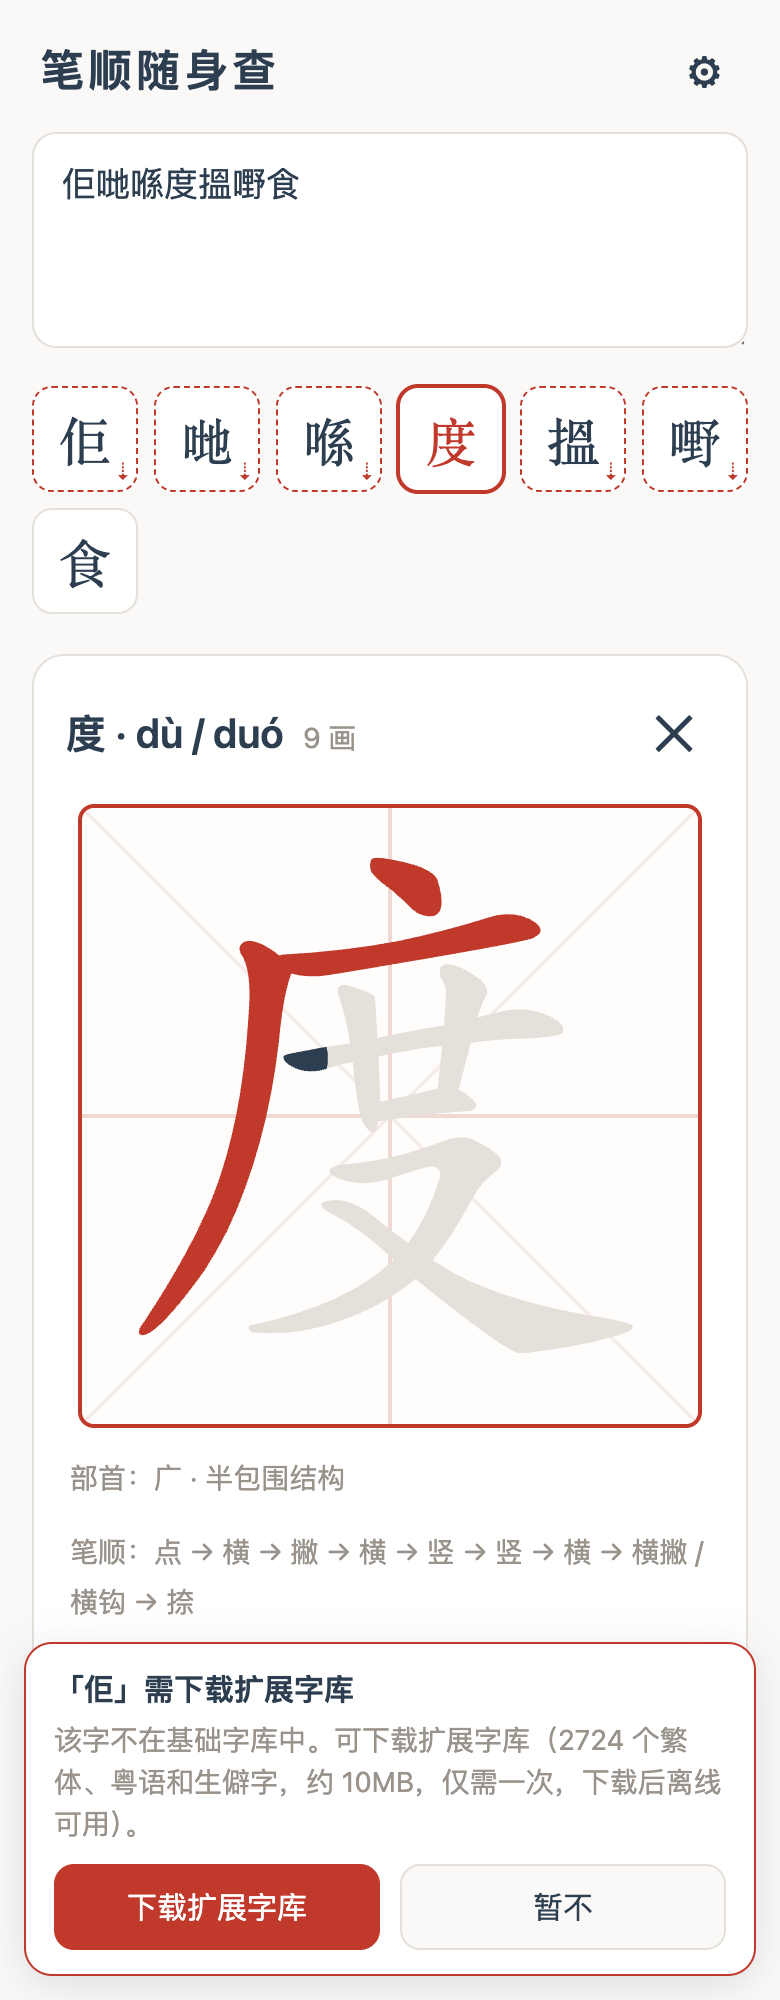
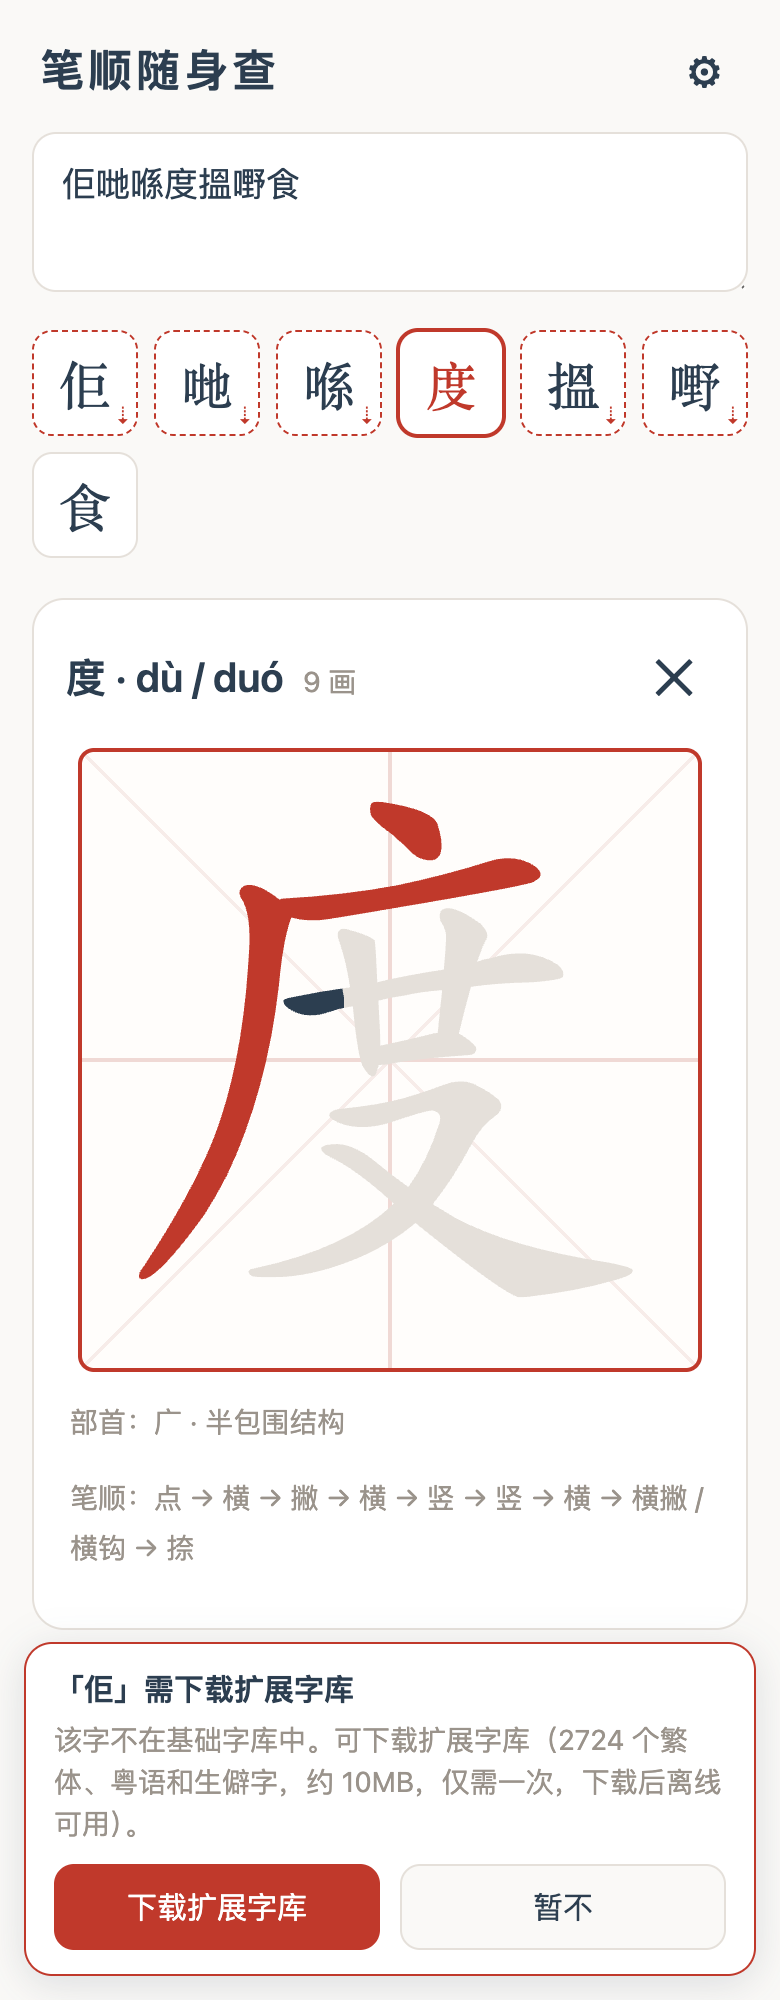
添加到主屏幕：复制链接 + 微信等内置浏览器识别 + Android 品牌浏览器提示
- 内置浏览器（微信/QQ/微博/钉钉/支付宝/抖音）检测：提示先跳出到系统浏览器，
  复制链接按钮设为主按钮，降低操作成本
- Android 按品牌给出对应默认浏览器的操作提示（小米/OPPO/vivo/华为/三星），
  而非统一按 Chrome 描述
- 复制链接：Clipboard API 优先，权限受限时降级到 execCommand

其余四项体验改进：
- 输入框改为 2 行高度
- 首次访问在空白区域播放一次笔字笔顺动画，教用户核心用法
- 练习按钮加边框/阴影/主题色，视觉上更像按钮
- 反馈提交成功后延迟 2.5 秒再返回设置页

diff --git a/src/main.ts b/src/main.ts
@@ -125,11 +125,15 @@ app.innerHTML = `
   </div>
 
   <section class="input-area">
-    <textarea id="text-input" rows="3" placeholder="请输入一个字或一段话让我识别吧。使用语音输入会更快哦 🎤" autocomplete="off"></textarea>
+    <textarea id="text-input" rows="2" placeholder="请输入一个字或一段话让我识别吧。使用语音输入会更快哦 🎤" autocomplete="off"></textarea>
   </section>
 
   <section id="char-grid" class="char-grid"></section>
   <p id="empty-hint" class="empty-hint">输入文字后，点击任意字查看笔顺 ✍️</p>
+  <div id="empty-demo" class="empty-demo" hidden>
+    <div id="demo-writer" class="mizige demo-writer-box"></div>
+    <p class="empty-demo-caption">👆 点这样的字，就能看到笔顺动画啦</p>
+  </div>
 
   <div id="detail" class="detail" hidden>
     <div class="detail-head">
@@ -181,10 +185,11 @@ app.innerHTML = `
 
   <div id="install-banner" class="install-banner" hidden>
     <div class="install-text">
-      <strong>📲 添加到主屏幕，断网也能查</strong>
+      <strong id="install-title">📲 添加到主屏幕，断网也能查</strong>
       <span id="install-steps"></span>
     </div>
     <div class="install-actions">
+      <button id="copy-link-btn" class="action-btn">🔗 复制链接</button>
       <button id="install-btn" class="action-btn install-primary" hidden>一键安装</button>
       <button id="install-dismiss" class="action-btn">知道了</button>
     </div>
@@ -238,6 +243,7 @@ Promise.all([
     const q = new URLSearchParams(location.search).get('q');
     if (q && !textInput.value) textInput.value = q;
     renderChars();
+    if (!textInput.value) maybeShowDemo();
   })
   .catch(() => {
     loading.textContent = '笔顺数据加载失败，请刷新重试';
@@ -258,8 +264,9 @@ function extractChars(text: string): string[] {
 
 function renderChars() {
   const chars = extractChars(textInput.value);
+  if (chars.length > 0) hideDemo();
   charGrid.innerHTML = '';
-  emptyHint.hidden = chars.length > 0;
+  emptyHint.hidden = chars.length > 0 || !$('#empty-demo').hidden;
   const cardOf = new Map<string, HTMLButtonElement>();
   for (const ch of chars) {
     const btn = document.createElement('button');
@@ -308,9 +315,38 @@ function renderChars() {
 
 let renderTimer: number | undefined;
 textInput.addEventListener('input', () => {
+  hideDemo(); // 一开始打字就收起首次演示，不用等 debounce
   clearTimeout(renderTimer);
   renderTimer = window.setTimeout(renderChars, 200);
 });
+
+// ---------- 首次访问演示：播放一次"笔"字的笔顺，教用户点字看笔顺 ----------
+const DEMO_SEEN_KEY = 'bishun-demo-seen';
+const emptyDemo = $('#empty-demo');
+
+function hideDemo() {
+  if (!emptyDemo.hidden) emptyDemo.hidden = true;
+}
+
+function maybeShowDemo() {
+  if (localStorage.getItem(DEMO_SEEN_KEY)) return;
+  if (!('笔' in strokeData)) return;
+  // 标记为已展示：确保无论刷新与否，这个演示一生只播一次
+  localStorage.setItem(DEMO_SEEN_KEY, '1');
+  emptyDemo.hidden = false;
+  emptyHint.hidden = true;
+  const target = $('#demo-writer');
+  const demoWriter = HanziWriter.create(target, '笔', {
+    width: 120,
+    height: 120,
+    padding: 8,
+    strokeColor: '#2c3e50',
+    radicalColor: '#c0392b',
+    showCharacter: false,
+    charDataLoader: (char, onComplete) => onComplete(strokeData[char] as never),
+  });
+  window.setTimeout(() => demoWriter.animateCharacter(), 400);
+}
 
 // ---------- 详情与动画 ----------
 function showDetail(ch: string, opts: { scroll?: boolean } = {}) {
@@ -458,7 +494,7 @@ feedbackSubmit.addEventListener('click', async () => {
     if (!r.ok) throw new Error(String(r.status));
     // 先让用户看到成功状态，再返回设置页，避免"不知道有没有提交上"
     feedbackSubmit.textContent = '✅ 提交成功，谢谢你的反馈！';
-    await new Promise((res) => setTimeout(res, 1200));
+    await new Promise((res) => setTimeout(res, 2500));
     feedbackText.value = '';
     feedbackContact.value = '';
     feedbackPage.hidden = true;
@@ -557,6 +593,29 @@ function isStandalone(): boolean {
   );
 }
 
+// 微信/QQ/微博等 App 内置浏览器无法添加到主屏幕，必须先跳到系统浏览器
+function inAppBrowserName(): string | null {
+  const ua = navigator.userAgent;
+  if (/MicroMessenger/i.test(ua)) return '微信';
+  if (/\bQQ\//i.test(ua) && !/MQQBrowser/i.test(ua)) return 'QQ';
+  if (/Weibo/i.test(ua)) return '微博';
+  if (/DingTalk/i.test(ua)) return '钉钉';
+  if (/AlipayClient/i.test(ua)) return '支付宝';
+  if (/(toutiao|bytedance|musical_ly|aweme)/i.test(ua)) return '今日头条/抖音';
+  return null;
+}
+
+// Android 品牌繁多，各家默认浏览器菜单位置不同，尽量给出对应提示
+function androidBrowserSteps(): string {
+  const ua = navigator.userAgent;
+  if (/SamsungBrowser/i.test(ua)) return '点击地址栏右侧菜单 ≡ → 选「添加页面至」→「主屏幕」（三星浏览器）';
+  if (/HuaweiBrowser|HUAWEI|HONOR/i.test(ua)) return '点击右下角菜单 ⋯ → 选「添加到桌面」（华为浏览器）';
+  if (/MiuiBrowser|XIAOMI|REDMI|POCO/i.test(ua)) return '点击右下角菜单 ⋯ → 选「添加到桌面」（小米浏览器）';
+  if (/HeyTapBrowser|OppoBrowser|\bOPPO\b|CPH\d{4}/i.test(ua)) return '点击右下角菜单 ⋯ → 选「添加到桌面」（OPPO 浏览器）';
+  if (/VivoBrowser|\bvivo\b/i.test(ua)) return '点击右下角菜单 ⋯ → 选「添加到桌面」（vivo 浏览器）';
+  return '点浏览器菜单 ⋮ → 选「安装应用」或「添加到主屏幕」';
+}
+
 function setupInstallBanner() {
   // ?clean 用于截图/嵌入场景，不显示安装引导
   if (new URLSearchParams(location.search).has('clean')) return;
@@ -564,14 +623,52 @@ function setupInstallBanner() {
   const ua = navigator.userAgent;
   const isIOS = /iPhone|iPad|iPod/.test(ua);
   const isAndroid = /Android/.test(ua);
-  const steps = isIOS
-    ? '用 Safari 打开 → 点底部 分享按钮 ⬆️ → 选「添加到主屏幕」'
-    : isAndroid
-      ? '点浏览器菜单 ⋮ → 选「安装应用」或「添加到主屏幕」'
-      : '手机浏览器打开本页，按提示添加到主屏幕；电脑 Chrome 可点地址栏的安装图标';
-  $('#install-steps').textContent = steps;
+  const inApp = inAppBrowserName();
+
+  const copyBtn = $<HTMLButtonElement>('#copy-link-btn');
+  if (inApp) {
+    // 当前在 App 内置浏览器里，添加到主屏幕的操作走不通，引导用户先跳出/复制链接
+    $('#install-title').textContent = `📲 当前在「${inApp}」中打开`;
+    $('#install-steps').textContent =
+      `无法直接添加到主屏幕。点右上角「···」或「≡」选择"在浏览器打开"；如果没有这个选项，复制链接后到系统浏览器（如 Safari / Chrome）里粘贴打开即可。`;
+    copyBtn.classList.add('install-primary');
+  } else {
+    $('#install-title').textContent = '📲 添加到主屏幕，断网也能查';
+    const steps = isIOS
+      ? '用 Safari 打开 → 点底部 分享按钮 ⬆️ → 选「添加到主屏幕」'
+      : isAndroid
+        ? androidBrowserSteps()
+        : '手机浏览器打开本页，按提示添加到主屏幕；电脑 Chrome 可点地址栏的安装图标';
+    $('#install-steps').textContent = steps;
+    copyBtn.classList.remove('install-primary');
+  }
   installBanner.hidden = false;
 }
+
+// 复制本页链接（去掉 ?q=/?clean 等临时参数），方便在 App 内浏览器里跳转到系统浏览器打开
+async function copyPageUrl() {
+  const url = `${location.origin}${location.pathname}`;
+  try {
+    await navigator.clipboard.writeText(url);
+    showToast('链接已复制，去浏览器粘贴打开吧 📋');
+  } catch {
+    const ta = document.createElement('textarea');
+    ta.value = url;
+    ta.style.position = 'fixed';
+    ta.style.left = '-9999px';
+    document.body.appendChild(ta);
+    ta.select();
+    try {
+      document.execCommand('copy');
+      showToast('链接已复制，去浏览器粘贴打开吧 📋');
+    } catch {
+      showToast('复制失败，请手动复制地址栏链接');
+    }
+    ta.remove();
+  }
+}
+
+$('#copy-link-btn').addEventListener('click', copyPageUrl);
 
 // Android Chrome 等支持原生安装提示时，显示"一键安装"
 window.addEventListener('beforeinstallprompt', (e) => {

diff --git a/src/style.css b/src/style.css
@@ -289,7 +289,8 @@ body {
   margin: 12px auto;
   width: fit-content;
 }
-#writer-target {
+#writer-target,
+.mizige {
   position: relative;
   border: 2px solid var(--accent);
   border-radius: 8px;
@@ -303,8 +304,24 @@ body {
   height: min(80vw, 320px);
   touch-action: none;
 }
-#writer-target svg {
+#writer-target svg,
+.mizige svg {
   display: block;
+}
+
+.empty-demo {
+  text-align: center;
+  margin-top: 28px;
+}
+.demo-writer-box {
+  width: 120px !important;
+  height: 120px !important;
+  margin: 0 auto;
+}
+.empty-demo-caption {
+  margin-top: 12px;
+  font-size: 14px;
+  color: var(--muted);
 }
 
 .stroke-names {
@@ -330,6 +347,19 @@ body {
 }
 .action-btn:active {
   background: var(--border);
+}
+
+#quiz-btn {
+  background: #fff;
+  border: 1px solid var(--accent);
+  color: var(--accent);
+  font-weight: 600;
+  box-shadow: 0 2px 6px rgba(192, 57, 43, 0.18);
+}
+#quiz-btn:active {
+  background: var(--accent);
+  color: #fff;
+  box-shadow: 0 1px 3px rgba(192, 57, 43, 0.25);
 }
 
 .loading {
@@ -372,7 +402,11 @@ body {
 }
 .install-actions {
   display: flex;
+  flex-wrap: wrap;
   gap: 10px;
+}
+.install-actions .action-btn {
+  flex: 1 1 100px;
 }
 .install-primary {
   background: var(--accent);

diff --git a/README.en.md b/README.en.md
@@ -26,8 +26,10 @@ Unlike stroke-order websites that require one online query per character, this t
 ## 📱 Install on your phone
 
 1. Open https://dezhaohe.github.io/bishun/ in your mobile browser
-2. iOS Safari: Share → **Add to Home Screen**; Android Chrome: Menu → **Install app**
+2. iOS Safari: Share → **Add to Home Screen**; Android: the app detects your phone's brand (Xiaomi/OPPO/vivo/Huawei/Samsung/…) and shows menu steps for its default browser
 3. Launch from the home-screen icon — works without a network connection (do the first visit on Wi-Fi)
+
+> Opened inside WeChat/QQ/Weibo etc.? Adding to home screen isn't possible from an in-app browser (a platform limitation) — the app will offer a "copy link" button so you can paste the URL into a real browser (Safari/Chrome/…) and continue there.
 
 ## 🚀 Development
 

diff --git a/README.md b/README.md
@@ -26,8 +26,10 @@
 ## 📱 手机安装（推荐）
 
 1. 手机浏览器打开 https://dezhaohe.github.io/bishun/
-2. iOS Safari：分享 → **添加到主屏幕**；Android Chrome：菜单 → **安装应用**
+2. iOS Safari：分享 → **添加到主屏幕**；Android：不同品牌手机（小米/OPPO/vivo/华为/三星…）应用内会给出对应浏览器的操作提示
 3. 从主屏幕图标打开即是全屏应用，断网可用（建议首次在 WiFi 下打开完成缓存）
+
+> 从微信 / QQ / 微博等 App 内打开时无法直接添加到主屏幕（这是系统限制），应用会提示"复制链接"，粘贴到系统浏览器（Safari / Chrome 等）打开后再添加。
 
 ## 🚀 本地开发
 